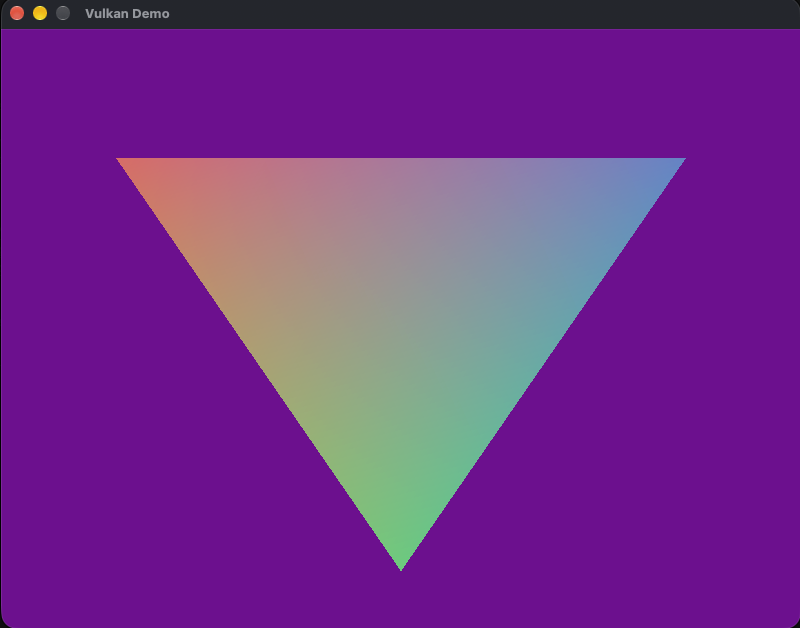
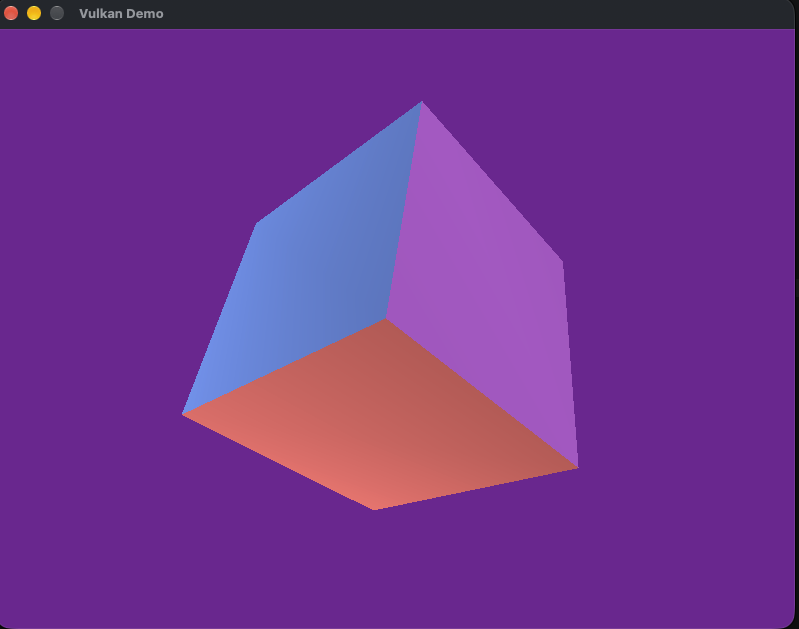
making Vulkan example multiplatform

diff --git a/vulkan/Readme.md b/vulkan/Readme.md
@@ -1,4 +1,3 @@
-
 # Vulkan Rendering Demo
 
 This project is a small Vulkan + GLFW demo that renders a colorful animated 3D cube on screen and supports simple keyboard interaction. It is built as a lightweight example of the Vulkan rendering pipeline: instance setup, surface creation, swapchain, render pass, depth buffering, shader pipeline, command recording, and frame presentation.
@@ -22,51 +21,113 @@ This project is a small Vulkan + GLFW demo that renders a colorful animated 3D c
 
 ## Requirements
 
-On macOS, install the dependencies needed for the Vulkan loader and MoltenVK runtime:
+This project is designed to run on macOS, Linux, and Windows, but the installation steps differ by platform.
+
+### macOS
+
+Install the Vulkan SDK and GLFW:
 
 ```bash
 brew install glfw molten-vk vulkan-headers vulkan-loader vulkan-validationlayers
 ```
 
+The launch scripts automatically set the `VK_ICD_FILENAMES` and `VK_LAYER_PATH` values needed for MoltenVK.
+
+### Linux
+
+On Ubuntu/Debian, install the usual Vulkan development packages:
+
+```bash
+sudo apt-get update
+sudo apt-get install -y build-essential cmake git libglfw3-dev libvulkan-dev glslang-tools
+```
+
+If you use another distro, install the equivalent `glfw`, `vulkan`, and `glslang` packages.
+
+### Windows
+
+Install:
+
+- CMake
+- A Vulkan SDK (such as LunarG's Vulkan SDK)
+- GLFW
+- A C++ compiler (MSVC or MinGW)
+
+The easiest approach is usually to use a package manager like `vcpkg` or the official Vulkan SDK installer and then point CMake to the installed dependencies.
+
 ## Build
 
-From this folder, you can build either configuration explicitly:
+From this folder, you can build either configuration explicitly.
+
+### macOS / Linux (bash)
 
 ```bash
 ./build_debug.sh
 ./build_release.sh
 ```
 
-The convenience wrappers also work:
+Or use the wrappers:
 
 ```bash
 ./build.sh debug
 ./build.sh release
 ```
 
-Each script creates a separate local build folder:
+### Windows (PowerShell)
+
+```powershell
+./build_debug.ps1
+./build_release.ps1
+```
+
+Or:
+
+```powershell
+./build.ps1 debug
+./build.ps1 release
+```
+
+Each build creates a separate output directory:
 
 - `build/debug`
 - `build/release`
 
 ## Run
 
+### macOS / Linux (bash)
+
 ```bash
 ./run_debug.sh
 ./run_release.sh
 ```
 
-You can also use the convenience wrappers:
+Or:
 
 ```bash
 ./run.sh debug
 ./run.sh release
 ```
 
-The launch scripts set the Vulkan environment variables needed for MoltenVK on macOS:
+### Windows (PowerShell)
+
+```powershell
+./run_debug.ps1
+./run_release.ps1
+```
+
+Or:
+
+```powershell
+./run.ps1 debug
+./run.ps1 release
+```
+
+The macOS launch scripts set the Vulkan environment variables needed for MoltenVK:
 
 - `VK_ICD_FILENAMES`: points to the MoltenVK ICD
 - `VK_LAYER_PATH`: loads the validation layer from the Vulkan installation
+
+Linux and Windows usually do not require extra environment variables beyond the installed runtime and loader configuration.
 
 The result looks like this:
 
@@ -78,10 +139,10 @@ The result looks like this:
 - GLFW docs: https://www.glfw.org/docs/latest/
 - MoltenVK: https://github.com/KhronosGroup/MoltenVK
 - Vulkan SDK / validation layer info: https://vulkan.lunarg.com/
+- Vulkan for Windows/Linux: https://docs.vulkan.org/tutorial/latest/00_Introduction.html
 
 ## Original code reference
 
 - https://vulkan-tutorial.com/Drawing_a_triangle/Setup/Base_code
-
 
 [def]: !pic
